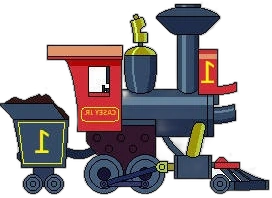
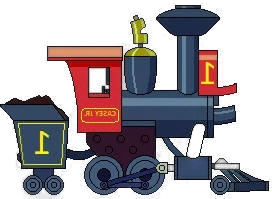
docs: capture all 2026-04-22 feedback as Tasks #44+#45 in TODO
Task #44 (P0) — Result modal engine bug:
Screenshot shows modal with '1 star + Sempurna! + Matematika Benar: 0' — contradictory. Modal uses hardcoded 'Selesai!' title + 'Sempurna!' sub-message regardless of actual star count. Planned fix: title/sub branch on stars, Next-level button only when stars≥3, GameScoring.calc audit for zero-correct case.

Task #45 — Character train sprite recalibration:
- All 4 sprites re-processed with isnet-general-use + alpha matting for cleaner bg removal
- Linus Brave dimensions dropped 264×173 → 130×101 (big change, wheels need re-map)
- Wheel positions in trains-db.js + G16_CHAR_CONFIGS need audit
- Train placement clipped at screen edge on wide sprites (Dragutin 512, Malivlak 512)

Plan mode — no execute until user confirms.

diff --git a/style.css b/style.css
@@ -288,16 +288,16 @@ body { font-family: var(--font); color: var(--text); min-height: 100vh; overflow
 @keyframes sunPulse { 0%,100%{box-shadow:0 0 30px #FCD34D88} 50%{box-shadow:0 0 50px #FCD34DCC} }
 @keyframes cloudDrift { 0%{transform:translateX(-120%)} 100%{transform:translateX(110vw)} }
 .breathe-container { display:flex;flex-direction:column;align-items:center;justify-content:center;flex:1;width:100%;position:relative;z-index:1; }
-.breathe-circle-wrap { position:relative;width:230px;height:230px;display:flex;align-items:center;justify-content:center;margin-bottom:28px; }
+.breathe-circle-wrap { position:relative;width:clamp(160px,52vw,230px);height:clamp(160px,52vw,230px);display:flex;align-items:center;justify-content:center;margin-bottom:var(--rz-gap-lg); }
 .breathe-ring { position:absolute;width:100%;height:100%;border-radius:50%;background:radial-gradient(circle,rgba(167,139,250,0.35),rgba(139,92,246,0.2));transition:transform 0.8s ease,background 0.8s ease;box-shadow:0 0 40px rgba(167,139,250,0.3); }
 .breathe-ring.ring2 { width:75%;height:75%;background:radial-gradient(circle,rgba(167,139,250,0.55),rgba(139,92,246,0.3)); }
-.breathe-animal { font-size:80px;z-index:2;transition:transform 0.8s ease;filter:drop-shadow(0 8px 16px rgba(139,92,246,0.3)); }
-.breathe-instruction { font-size:34px;font-weight:900;font-family:var(--font-display);text-align:center;color:#4C1D95;margin-bottom:8px;min-height:44px; }
-.breathe-sub { font-size:17px;color:#6D28D9;text-align:center;margin-bottom:20px;font-weight:700; }
-.breathe-timer-wrap { position:relative;width:80px;height:80px;margin:0 auto 16px; }
+.breathe-animal { font-size:calc(var(--rz-font-hero) * 1.65);z-index:2;transition:transform 0.8s ease;filter:drop-shadow(0 8px 16px rgba(139,92,246,0.3)); }
+.breathe-instruction { font-size:calc(var(--rz-font-h1) * 1.05);font-weight:900;font-family:var(--font-display);text-align:center;color:#4C1D95;margin-bottom:var(--rz-gap-xs);min-height:calc(var(--rz-font-h1) * 1.4); }
+.breathe-sub { font-size:var(--rz-font-body);color:#6D28D9;text-align:center;margin-bottom:var(--rz-gap-md);font-weight:700; }
+.breathe-timer-wrap { position:relative;width:clamp(70px,18vw,80px);height:clamp(70px,18vw,80px);margin:0 auto var(--rz-gap-md); }
 .breathe-timer-bg { position:absolute;inset:0;border-radius:50%;background:rgba(255,255,255,0.6); }
-.breathe-timer { position:relative;font-size:42px;font-weight:900;color:var(--brand);text-align:center;line-height:80px; }
-.breathe-cycles { display:flex;gap:12px;justify-content:center;margin-top:16px; }
+.breathe-timer { position:relative;font-size:calc(var(--rz-font-hero) * 0.88);font-weight:900;color:var(--brand);text-align:center;line-height:clamp(70px,18vw,80px); }
+.breathe-cycles { display:flex;gap:var(--rz-gap-sm);justify-content:center;margin-top:var(--rz-gap-md); }
 .cycle-dot { width:20px;height:20px;border-radius:50%;background:rgba(255,255,255,0.5);border:3px solid rgba(139,92,246,0.4);transition:background 0.4s,transform 0.4s cubic-bezier(0.34,1.56,0.64,1); }
 .cycle-dot.done { background:var(--brand);border-color:var(--brand-light);transform:scale(1.2);box-shadow:0 0 12px rgba(139,92,246,0.5); }
 
@@ -361,13 +361,13 @@ body { font-family: var(--font); color: var(--text); min-height: 100vh; overflow
 @keyframes moonGlow { 0%,100%{filter:drop-shadow(0 0 8px #FCD34D44)} 50%{filter:drop-shadow(0 0 16px #FCD34DAA)} }
 .glow-orb { position:absolute;border-radius:50%;filter:blur(20px);animation:orbFloat ease-in-out infinite; }
 @keyframes orbFloat { 0%,100%{transform:translateY(0)scale(1)} 50%{transform:translateY(-15px)scale(1.1)} }
-.g5-score-row { display:flex;gap:12px;width:100%;max-width:520px;margin-bottom:14px;position:relative;z-index:1; }
-.g5-player-score { flex:1;background:rgba(255,255,255,0.8);border-radius:18px;padding:10px 14px;text-align:center;box-shadow:var(--shadow);border:3px solid transparent;transition:border-color 0.3s,transform 0.2s; }
+.g5-score-row { display:flex;gap:var(--rz-gap-sm);width:100%;max-width:520px;margin-bottom:var(--rz-gap-sm);position:relative;z-index:1; }
+.g5-player-score { flex:1;background:rgba(255,255,255,0.8);border-radius:var(--rz-radius-md);padding:var(--rz-gap-sm) var(--rz-gap-md);text-align:center;box-shadow:var(--shadow);border:3px solid transparent;transition:border-color 0.3s,transform 0.2s; }
 .g5-player-score.active { border-color:var(--brand);transform:scale(1.04);background:linear-gradient(135deg,#F3E8FF,white); }
-.g5-player-score .ps-name { font-size:13px;font-weight:700;color:var(--text-light); }
-.g5-player-score .ps-val  { font-size:22px;font-weight:900;background:linear-gradient(135deg,#8B5CF6,#F43F5E);-webkit-background-clip:text;-webkit-text-fill-color:transparent;background-clip:text; }
-.g5-turn-text { font-size:16px;font-weight:700;text-align:center;color:#5B21B6;margin-bottom:14px;position:relative;z-index:1; }
-.g5-grid { display:grid;grid-template-columns:repeat(4,1fr);gap:8px;width:100%;max-width:520px;position:relative;z-index:1; }
+.g5-player-score .ps-name { font-size:var(--rz-font-sm);font-weight:700;color:var(--text-light); }
+.g5-player-score .ps-val  { font-size:var(--rz-font-title);font-weight:900;background:linear-gradient(135deg,#8B5CF6,#F43F5E);-webkit-background-clip:text;-webkit-text-fill-color:transparent;background-clip:text; }
+.g5-turn-text { font-size:var(--rz-font-body);font-weight:700;text-align:center;color:#5B21B6;margin-bottom:var(--rz-gap-sm);position:relative;z-index:1; }
+.g5-grid { display:grid;grid-template-columns:repeat(4,1fr);gap:var(--rz-gap-sm);width:100%;max-width:520px;position:relative;z-index:1; }
 .g5-grid.grid-3x4 { grid-template-columns:repeat(3,1fr);max-width:380px; }
 .g5-grid.grid-4x5 { grid-template-columns:repeat(4,1fr); }
 .g5-card { aspect-ratio:1;border-radius:16px;cursor:pointer;position:relative;transform-style:preserve-3d;transition:transform 0.45s cubic-bezier(0.4,0,0.2,1);box-shadow:0 4px 10px rgba(0,0,0,0.12); }
@@ -377,8 +377,8 @@ body { font-family: var(--font); color: var(--text); min-height: 100vh; overflow
 .g5-card-front { background:linear-gradient(135deg,#8B5CF6,#A78BFA);box-shadow:inset 0 2px 6px rgba(255,255,255,0.3); }
 .g5-card-front::after { content:'🐾';font-size:44px;filter:drop-shadow(0 2px 4px rgba(0,0,0,0.2)); }
 .g5-card-back { background:white;transform:rotateY(180deg);flex-direction:column;gap:2px; }
-.g5-card-back .card-emoji { font-size:48px; }
-.g5-card-back .card-label { font-size:11px;font-weight:900;color:var(--text-light); }
+.g5-card-back .card-emoji { font-size:clamp(30px,8vw,48px); }
+.g5-card-back .card-label { font-size:clamp(8px,1.8vw,11px);font-weight:900;color:var(--text-light); }
 .g5-banner-wrap { width:100%;max-width:520px;margin-bottom:8px;flex-shrink:0;position:relative;z-index:1; }
 .g5-banner-img { width:100%;height:80px;object-fit:cover;object-position:center 30%;border-radius:16px;box-shadow:0 4px 16px rgba(0,0,0,0.2); }
 /* Gold match celebration (overrides plain teal) */
@@ -521,19 +521,19 @@ body { font-family: var(--font); color: var(--text); min-height: 100vh; overflow
 
 /* G7 */
 #screen-game7 { background:linear-gradient(180deg,#F0FDFA 0%,#CCFBF1 50%,#E0F2FE 100%); }
-.g7-mode-badge { background:linear-gradient(135deg,#2DD4BF,#14B8A6);color:white;border-radius:100px;padding:6px 18px;font-size:14px;font-weight:700;margin-bottom:14px;box-shadow:0 4px 0 #0F766E;align-self:center; }
-.g7-display { width:min(340px,82vw);height:min(340px,82vw);border-radius:28px;background:white;box-shadow:var(--shadow-lg);display:flex;align-items:center;justify-content:center;font-size:min(150px,38vw);margin-bottom:16px;border:4px solid #CCFBF1;animation:g3Pop 0.5s cubic-bezier(0.34,1.56,0.64,1);align-self:center; }
-.g7-question { font-size:20px;font-weight:900;text-align:center;margin-bottom:18px;background:linear-gradient(135deg,#14B8A6,#2DD4BF);-webkit-background-clip:text;-webkit-text-fill-color:transparent;background-clip:text; }
-.g7-choices { display:grid;grid-template-columns:1fr 1fr;gap:12px;width:100%;max-width:440px;align-self:center;padding-bottom:24px; }
-.g7-choice-btn { background:white;border:3px solid #CCFBF1;border-radius:20px;padding:16px 10px;font-family:var(--font);font-weight:900;font-size:18px;cursor:pointer;text-align:center;color:var(--text);box-shadow:0 4px 0 #A5F3EB;transition:transform 0.15s cubic-bezier(0.34,1.56,0.64,1),border-color 0.15s; }
+.g7-mode-badge { background:linear-gradient(135deg,#2DD4BF,#14B8A6);color:white;border-radius:100px;padding:var(--rz-gap-xs) var(--rz-gap-md);font-size:var(--rz-font-sm);font-weight:700;margin-bottom:var(--rz-gap-sm);box-shadow:0 4px 0 #0F766E;align-self:center; }
+.g7-display { width:min(340px,82vw);height:min(340px,82vw);border-radius:var(--rz-radius-lg);background:white;box-shadow:var(--shadow-lg);display:flex;align-items:center;justify-content:center;font-size:min(150px,38vw);margin-bottom:var(--rz-gap-md);border:4px solid #CCFBF1;animation:g3Pop 0.5s cubic-bezier(0.34,1.56,0.64,1);align-self:center; }
+.g7-question { font-size:var(--rz-font-title);font-weight:900;text-align:center;margin-bottom:var(--rz-gap-md);background:linear-gradient(135deg,#14B8A6,#2DD4BF);-webkit-background-clip:text;-webkit-text-fill-color:transparent;background-clip:text; }
+.g7-choices { display:grid;grid-template-columns:1fr 1fr;gap:var(--rz-gap-sm);width:100%;max-width:440px;align-self:center;padding-bottom:24px; }
+.g7-choice-btn { background:white;border:3px solid #CCFBF1;border-radius:var(--rz-radius-md);padding:var(--rz-gap-md) var(--rz-gap-sm);font-family:var(--font);font-weight:900;font-size:var(--rz-font-body);cursor:pointer;text-align:center;color:var(--text);box-shadow:0 4px 0 #A5F3EB;transition:transform 0.15s cubic-bezier(0.34,1.56,0.64,1),border-color 0.15s; }
 .g7-choice-btn:active { transform:scale(0.92)translateY(3px); }
 .g7-choice-btn.correct { border-color:#14B8A6;background:linear-gradient(135deg,#CCFBF1,white);box-shadow:0 4px 0 #0F766E,0 0 20px rgba(20,184,166,0.3);animation:correctPulse 0.4s ease; }
 .g7-choice-btn.wrong   { border-color:#F43F5E;background:linear-gradient(135deg,#FFF1F3,white);animation:wrongShake 0.4s ease; }
-.g7-choice-img { font-size:48px;display:block;margin-bottom:6px; }
-.g7-choice-text { font-size:17px;color:var(--text); }
-.g7-suku { display:inline-block;font-size:20px;font-weight:900;color:#14B8A6;animation:g7SukuPop 0.35s cubic-bezier(0.34,1.56,0.64,1) both; }
+.g7-choice-img { font-size:calc(var(--rz-font-hero) * 1.05);display:block;margin-bottom:var(--rz-gap-xs); }
+.g7-choice-text { font-size:var(--rz-font-body);color:var(--text); }
+.g7-suku { display:inline-block;font-size:var(--rz-font-title);font-weight:900;color:#14B8A6;animation:g7SukuPop 0.35s cubic-bezier(0.34,1.56,0.64,1) both; }
 @keyframes g7SukuPop{0%{transform:scale(0.5) translateY(6px);opacity:0}100%{transform:none;opacity:1}}
-.g7-progress { font-size:15px;color:var(--text-light);font-weight:700;text-align:center;margin-top:10px; }
+.g7-progress { font-size:var(--rz-font-sm);color:var(--text-light);font-weight:700;text-align:center;margin-top:var(--rz-gap-sm); }
 
 /* G8 */
 #screen-game8 { background:linear-gradient(160deg,#FFF1F3 0%,#F3E8FF 50%,#FFF0F5 100%); }
@@ -556,18 +556,18 @@ body { font-family: var(--font); color: var(--text); min-height: 100vh; overflow
 
 /* G9 */
 #screen-game9 { background:linear-gradient(160deg,#f0fdf4 0%,#dcfce7 30%,#bbf7d0 60%,#86efac 100%); }
-.g9-letter-display { font-size:80px;font-family:var(--font-display);font-weight:900;background:linear-gradient(135deg,#84CC16,#A3E635);-webkit-background-clip:text;-webkit-text-fill-color:transparent;background-clip:text;margin-bottom:4px;line-height:1;animation:g3Pop 0.5s cubic-bezier(0.34,1.56,0.64,1); }
-.g9-instruction { font-size:16px;font-weight:700;color:var(--text-light);margin-bottom:16px; }
-.g9-canvas-wrap { position:relative;width:min(300px,80vw);height:min(300px,80vw);border-radius:24px;overflow:hidden;box-shadow:0 8px 32px rgba(0,0,0,0.15);border:3px solid rgba(134,239,172,0.5);background:linear-gradient(145deg,#fefce8,#fffbeb); }
+.g9-letter-display { font-size:calc(var(--rz-font-hero) * 1.65);font-family:var(--font-display);font-weight:900;background:linear-gradient(135deg,#84CC16,#A3E635);-webkit-background-clip:text;-webkit-text-fill-color:transparent;background-clip:text;margin-bottom:var(--rz-gap-xs);line-height:1;animation:g3Pop 0.5s cubic-bezier(0.34,1.56,0.64,1); }
+.g9-instruction { font-size:var(--rz-font-body);font-weight:700;color:var(--text-light);margin-bottom:var(--rz-gap-md); }
+.g9-canvas-wrap { position:relative;width:clamp(220px,72vw,300px);height:clamp(220px,72vw,300px);border-radius:var(--rz-radius-lg);overflow:hidden;box-shadow:0 8px 32px rgba(0,0,0,0.15);border:3px solid rgba(134,239,172,0.5);background:linear-gradient(145deg,#fefce8,#fffbeb); }
 #g9-canvas { position:absolute;inset:0;cursor:crosshair;touch-action:none; }
 .g9-guide-dots { position:absolute;inset:0;pointer-events:none; }
 .g9-dot { position:absolute;width:20px;height:20px;border-radius:50%;background:rgba(132,204,22,0.35);border:2.5px solid rgba(132,204,22,0.6);transform:translate(-50%,-50%);transition:all 0.3s ease;box-shadow:0 0 8px rgba(132,204,22,0.2);animation:g9DotPulse 2s ease-in-out infinite; }
 .g9-dot.hit { background:#84CC16;border-color:#3F6212;transform:translate(-50%,-50%)scale(1.35);box-shadow:0 0 16px rgba(132,204,22,0.7);animation:none; }
 @keyframes g9DotPulse{0%,100%{box-shadow:0 0 6px rgba(132,204,22,0.2)}50%{box-shadow:0 0 14px rgba(132,204,22,0.5)}}
-.g9-result { text-align:center;margin-top:12px;animation:feedbackPop 0.4s cubic-bezier(0.34,1.56,0.64,1); }
-.g9-stars { font-size:40px;margin-bottom:6px; }
+.g9-result { text-align:center;margin-top:var(--rz-gap-sm);animation:feedbackPop 0.4s cubic-bezier(0.34,1.56,0.64,1); }
+.g9-stars { font-size:calc(var(--rz-font-hero) * 0.85);margin-bottom:var(--rz-gap-xs); }
 #g9-result-msg { font-size:18px;font-weight:700;color:var(--text-light); }
-.g9-progress { font-size:15px;color:#558B2F;font-weight:700;text-align:center;margin-top:8px; }
+.g9-progress { font-size:var(--rz-font-sm);color:#558B2F;font-weight:700;text-align:center;margin-top:var(--rz-gap-xs); }
 
 /* MASCOT GUIDE */
 .mascot-guide { display:flex;align-items:flex-end;gap:12px;width:100%;max-width:480px;margin:0 0 10px;position:relative;z-index:1; }
@@ -702,11 +702,7 @@ body { font-family: var(--font); color: var(--text); min-height: 100vh; overflow
   /* RDE Step 5: G1 @media overrides removed — tokens handle 480px breakpoint */
   .g1-choices { max-width:100%; }
 
-  /* G2 */
-  .breathe-circle-wrap { width:190px; height:190px; }
-  .breathe-animal { font-size:66px; }
-  .breathe-instruction { font-size:28px; }
-  .breathe-sub { font-size:15px; }
+  /* G2 handled via RDE --rz-* tokens (2026-04-22 Step 5) */
 
   /* G3 handled via RDE --rz-* tokens */
 
@@ -715,12 +711,10 @@ body { font-family: var(--font); color: var(--text); min-height: 100vh; overflow
   .g4-animals-grid { min-height:110px; }
   .g4-animal-item { font-size:50px; }
 
-  /* G5 memory */
-  .g5-grid { gap:6px; max-width:100%; }
-  .g5-card-back .card-emoji { font-size:38px; }
-  .g5-card-back .card-label { font-size:8px; }
-  .g5-card-front::after { font-size:20px; }
-  .g5-score-row { gap:8px; max-width:100%; }
+  /* G5 memory — grid/score/card sizes handled via RDE --rz-* tokens + clamp (2026-04-22 Step 5). Card-front ::after kept at base 44px (token-composed where safe). */
+  .g5-grid { max-width:100%; }
+  .g5-card-front::after { font-size:clamp(20px,5vw,44px); }
+  .g5-score-row { max-width:100%; }
 
   /* G6 */
   .g6-road { height:min(52vh,380px); min-height:220px; }
@@ -731,21 +725,16 @@ body { font-family: var(--font); color: var(--text); min-height: 100vh; overflow
   .g6-controls { gap:8px; }
   .g6-score-mid { font-size:17px; min-width:64px; padding:8px 12px; }
 
-  /* G7 */
+  /* G7 — question/choices/img/text migrated to RDE tokens (2026-04-22 Step 5). Display viewport-sized retained for board scale. */
   .g7-display { width:190px; height:190px; font-size:95px; }
-  .g7-question { font-size:17px; }
-  .g7-choices { max-width:100%; gap:8px; }
-  .g7-choice-btn { padding:12px 8px; font-size:15px; }
-  .g7-choice-img { font-size:38px; }
-  .g7-choice-text { font-size:14px; }
+  .g7-choices { max-width:100%; }
 
   /* G8 — slots/letters/slot/letter-btn migrated to RDE tokens (2026-04-21 Step 3) */
   .g8-hint-img { width:180px; height:180px; font-size:110px; }
 
-  /* G9 canvas */
+  /* G9 canvas — letter-display handled via RDE --rz-* tokens; wrap size retained for canvas pixel math (2026-04-22 Step 5) */
   .g9-canvas-wrap { width:min(280px, 90vw); height:min(280px, 90vw); }
   #g9-canvas { width:100%; height:100%; }
-  .g9-letter-display { font-size:64px; }
 
   /* Feedback overlay */
   .feedback-card { padding:30px 22px; }
@@ -773,9 +762,7 @@ body { font-family: var(--font); color: var(--text); min-height: 100vh; overflow
   /* Card */
   .card { padding:18px 14px; }
 
-  /* Breathe timer */
-  .breathe-timer-wrap { width:70px; height:70px; }
-  .breathe-timer { font-size:36px; line-height:70px; }
+  /* G2 Breathe timer handled via RDE --rz-* tokens (2026-04-22 Step 5) */
 }
 
 /* Small phones (≤400px) */
@@ -795,8 +782,7 @@ body { font-family: var(--font); color: var(--text); min-height: 100vh; overflow
   .player-chip .p-name { font-size:11px; }
   .player-chip .p-stars { display:none; }
 
-  .g5-grid { gap:6px; }
-  .g5-card-back .card-emoji { font-size:34px; }
+  /* G5 400px handled via RDE --rz-* tokens (2026-04-22 Step 5) */
 
   .g6-road { height:min(50vh,360px); }
 
@@ -828,11 +814,10 @@ body { font-family: var(--font); color: var(--text); min-height: 100vh; overflow
   /* RDE Step 5: G1 400px overrides removed */
 
   /* RDE Step 5: G4 400px choice-btn override removed */
-  .g5-grid { gap:5px; }
-  .g5-card-back .card-emoji { font-size:30px; }
+  /* G5 360px handled via RDE --rz-* tokens (2026-04-22 Step 5) */
   .g6-road { height:48vh; }
   .g9-canvas-wrap { width:min(240px, 94vw); height:min(240px, 94vw); }
-  .g9-letter-display { font-size:54px; }
+  /* G9 letter-display handled via RDE --rz-* tokens (2026-04-22 Step 5) */
   /* G8 letter-btn/slot handled via RDE --rz-scale (shrinks to 0.7× at 320px) */
 }
 
@@ -855,17 +840,16 @@ body { font-family: var(--font); color: var(--text); min-height: 100vh; overflow
   .player-chip .p-animal { font-size:18px; }
   .player-chip .p-streak { display:none; }
 
-  .breathe-circle-wrap { width:160px; height:160px; }
-  .breathe-animal { font-size:56px; }
-  .breathe-instruction { font-size:22px; }
+  /* G2 320px handled via RDE --rz-* tokens (2026-04-22 Step 5) */
 
   /* RDE Step 5: G1 animal-display 320px override removed — token handles */
   /* G3 handled via RDE --rz-* tokens */
   .g4-animals-grid { min-height:90px; }
   .g4-animal-item { font-size:44px; }
-  .g5-grid { gap:4px; }
+  /* G5 320px handled via RDE --rz-* tokens (2026-04-22 Step 5) */
   .g6-road { height:46vh; }
   .g7-display { width:170px; height:170px; font-size:82px; }
+  /* G7 320px — choice-btn/text handled via RDE --rz-* tokens (2026-04-22 Step 5) */
   /* G8 letter-btn handled via RDE --rz-scale */
   .g9-canvas-wrap { width:min(220px, 96vw); height:min(220px, 96vw); }
   .feedback-card { padding:22px 16px; }

diff --git a/index.html b/index.html
@@ -6,7 +6,7 @@
 <title>Dunia Emosi 🐾</title>
 <link href="https://fonts.googleapis.com/css2?family=Nunito:wght@400;700;900&family=Fredoka+One&display=swap" rel="stylesheet">
 
-<link rel="stylesheet" href="style.css?v=20260422d">
+<link rel="stylesheet" href="style.css?v=20260422e">
 </head>
 <body>
 <!-- Loading indicator — hidden by JS after page loads -->
@@ -627,8 +627,8 @@
           </div>
           <!-- G15: Lokomotif Pemberani -->
           <div class="wmap-node" id="gtile-15" onclick="playClick();openLevelSelect(15)" title="Lokomotif Pemberani">
-            <div class="wmap-node-bldg" style="background:linear-gradient(145deg,#0D47A1,#42A5F5);">
-              <img class="wn-icon" src="assets/train/linus-casey.webp" alt="Linus Casey" style="width:50px;height:50px;object-fit:contain;filter:drop-shadow(0 3px 8px rgba(0,0,0,0.75));" onerror="this.src='assets/train/lokomotif-front-red.svg'">
+            <div class="wmap-node-bldg" style="background:linear-gradient(145deg,#FEF3C7,#FDBA74);">
+              <img class="wn-icon" src="assets/train/linus-casey.webp" alt="Linus Casey" style="width:75px;height:75px;object-fit:contain;filter:drop-shadow(0 3px 8px rgba(0,0,0,0.75));" onerror="this.src='assets/train/lokomotif-front-red.svg'">
             </div>
             <div class="wmap-node-name">Lokomotif Pemberani</div>
             <div class="wmap-node-stars" id="gstars-15-lbl"></div>
@@ -2056,6 +2056,6 @@ function loadPixiJS(cb) {
   document.head.appendChild(s)
 }
 </script>
-<script src="game.js?v=20260422d" defer></script>
+<script src="game.js?v=20260422e" defer></script>
 </body>
 </html>

diff --git a/games/g15-pixi.html b/games/g15-pixi.html
@@ -1710,7 +1710,10 @@ function buildTrainGrid() {
       const img = document.createElement('img');
       img.src = entry.spriteUrl;
       img.alt = entry.name;
-      img.style.cssText = 'width:100px;height:36px;object-fit:contain;display:block;';
+      // Sprites vary widely in aspect (1.37 .. 7.21). Use max-width with auto height
+      // so tall trains (Casey JR, Linus) stay chunky and wide trains (JZ 711, Malivlak)
+      // render at readable height instead of being squished into a 36px band.
+      img.style.cssText = 'width:auto;height:auto;max-width:120px;max-height:48px;object-fit:contain;display:block;margin:0 auto;';
       card.appendChild(img);
     } else {
       const canvas = document.createElement('canvas');

diff --git a/game.js b/game.js
@@ -308,7 +308,7 @@ const GAME_META = {
   12:{icon:'🌑',name:'Tebak Bayangan'},
   13:{icon:'🔥',name:'Evolusi Math'},
   14:{icon:'🏁',name:'Balapan Kereta'},
-  15:{icon:'🚂',name:'Lokomotif Pemberani',iconImg:'assets/train/lokomotif-front-red.svg'},
+  15:{icon:'🚂',name:'Lokomotif Pemberani',iconImg:'assets/train/linus-casey.webp'},
   16:{icon:'🚂',name:'Selamatkan Kereta!',iconImg:'assets/train/lokomotif-front-blue.svg'},
   17:{icon:'🌉',name:'Jembatan Goyang'},
   18:{icon:'🏛',name:'Museum Ambarawa'},

diff --git a/TODO-GAME-FIXES.md b/TODO-GAME-FIXES.md
@@ -2,6 +2,36 @@
 > This file tracks ALL pending game issues. Claude reads this at session start.
 > Mark items ✅ when done. Add new issues at the bottom.
 
+## 🔥 OPEN 2026-04-22 (session ongoing)
+
+### Task #44 — Result Modal Engine Contradicts Stars (P0 BUG)
+- ⬜ **Symptom**: Modal shows "Selesai!" + 1★ + "Sempurna! Tidak ada kesalahan!" + "Matematika Benar: 0" + enabled "Level Berikutnya" button — WITH ZERO CORRECT ANSWERS. Screenshot 2026-04-22.
+- **Root cause hypotheses**:
+  - `GameScoring.calc({correct:0, total:N})` may return stars≥1 (bug — should be 0).
+  - Modal title hardcoded "Selesai!" regardless of stars. Should branch: 0★="Gagal!", 1-2★="Coba Lagi", 3★="Bagus!", 4★="Hebat!", 5★="Sempurna!".
+  - Sub-message "Sempurna! Tidak ada kesalahan!" hardcoded instead of derived from stars.
+  - "Level Berikutnya" should only appear when stars≥3 (passing grade).
+- **Touches**: `games/game-modal.js` `GameModal.show()` + `game.js` showResult/showGameResult wrappers.
+- **Scope**: affects ALL games that use the shared modal.
+
+### Task #45 — Character Train Sprite Re-processed (cumulative feedback)
+- ⬜ **JZ 711 Dragutin**: first pass 512×71 may have white edges / uncropped. Re-processed 2026-04-22 06:53 via `isnet-general-use` + `alpha_matting=True` → now 512×128. Needs visual verification.
+- ⬜ **Malivlak (JZ 62)**: white around edges not fully removed. Re-processed → 512×256. Verify cleanly transparent.
+- ⬜ **Casey JR**: re-processed → 272×199 (negligible change).
+- ⬜ **Linus Brave**: re-processed → 130×101 (BIG CHANGE from 264×173!). All `wheelPositions` in trains-db.js + G16_CHAR_CONFIGS need recalibration against new 130-wide sprite.
+- ⬜ **Wheel positions proportional to actual wheels in sprite** — user flagged Malivlak wheels too big + misaligned. Need to trace actual wheel pixel coordinates in the sprite and map via spriteHeight scale.
+- ⬜ **Train placement clipped at screen edge** — character trains (especially wide ones like Dragutin 512→~270px rendered, Malivlak 512→~285px rendered) overflow viewport. Increase TRAIN_SCREEN_X in g15-pixi.html/g16-pixi.html OR add container bounds check. Add safe margin.
+- **Touches**: `games/trains-db.js`, `games/g15-pixi.html`, `games/g16-pixi.html` (G16_CHAR_CONFIGS).
+
+### Plan order
+1. Fix #44 modal engine first (P0, visible bug with wrong success message).
+2. Recalibrate Linus wheel positions for new 130×101 sprite.
+3. Verify + recalibrate Malivlak wheels against new 512×256 sprite.
+4. Increase train safe margin from screen edge.
+5. Visual check JZ 711 Dragutin cleanliness.
+
+---
+
 ## Status Legend
 - ⬜ = Not started
 - 🔧 = In progress
@@ -189,7 +219,11 @@ Cache-bust: `index.html` v=20260421b (style + game.js).
 ### RDE Steps 5+6 (Task #29, progress 2026-04-22) 🔧
 - ✅ **Step 5 G1** — `.g1-animal-display`/`.g1-question`/`.g1-choice-btn`/`.choice-emoji/label`/`.g1-progress` consume `--rz-font-*`/`--rz-gap-*`/`--rz-radius-md`. Removed 9 @media override lines.
 - ✅ **Step 5 G4** — `.g4-timer-text`/`.g4-question`/`.g4-choice-btn`/`.g4-progress`/`.g4-mode-btn` tokenized. Removed 4 @media override lines.
-- ⬜ **Step 5 G2/G5/G7/G9** — deferred (state complexity, needs careful audit).
+- ✅ **Step 5 G2** (2026-04-22) — `.breathe-circle-wrap/animal/instruction/sub/timer-wrap/timer/cycles` consume `--rz-font-*`/`--rz-gap-*` + `clamp()` for circle/timer diameters. Removed 10 @media override lines (480/320).
+- ✅ **Step 5 G5** (2026-04-22) — `.g5-score-row`/`.g5-player-score`/`.ps-name/ps-val`/`.g5-turn-text`/`.g5-grid`/`.card-emoji`/`.card-label` tokenized (gap/radius/padding/font + clamp). Gameplay rules (aspect-ratio, preserve-3d, grid-template-columns) preserved. Removed 8 @media override lines.
+- ✅ **Step 5 G7** (2026-04-22) — `.g7-mode-badge`/`.g7-display`/`.g7-question`/`.g7-choices`/`.g7-choice-btn/img/text`/`.g7-suku`/`.g7-progress` tokenized. Dark-theme `!important` overrides at 1620+ preserved. Removed 6 @media override lines (viewport-sized display retained for 480/320).
+- ✅ **Step 5 G9** (2026-04-22) — `.g9-letter-display`/`.g9-instruction`/`.g9-canvas-wrap`/`.g9-result`/`.g9-stars`/`.g9-progress` tokenized + clamp. Canvas pixel-math wrap sizes retained for 480/360/320. Removed 2 @media letter-display overrides.
+- 🧮 **Token count**: `var(--rz-` references grew 62 → 112 (+50). Brace balance verified 2767/2767.
 - ✅ **Step 6** — `shared/rz-responsive.js` shipped with `window.RZ` API mirroring CSS `--rz-scale` formula. PixiJS games opt-in per Step 7.
 - ⬜ **Step 7** — Pixi migration (G14/G15/G16/G19/G20/G22) — wire `RZ.btn(kind)`/`RZ.fontScale(base)` into sprite/text sizing. Deferred, low priority.
 

diff --git a/documentation and standarization/CHANGELOG.md b/documentation and standarization/CHANGELOG.md
@@ -1,5 +1,37 @@
 # Changelog — Dunia Emosi
 
+## 2026-04-22 — RDE Step 5: G2/G5/G7/G9 migrated
+
+### Changed
+- **RDE Step 5 G2** (`style.css:290-300`) — `.breathe-circle-wrap`/`.breathe-animal`/`.breathe-instruction`/`.breathe-sub`/`.breathe-timer-wrap`/`.breathe-timer`/`.breathe-cycles` consume `--rz-font-*`/`--rz-gap-*` + `clamp()` for circle/timer diameters. Removed 10 lines from `@media` blocks (480/320 breakpoints).
+- **RDE Step 5 G5** (`style.css:364-381`) — `.g5-score-row`/`.g5-player-score`/`.ps-name`/`.ps-val`/`.g5-turn-text`/`.g5-grid` gap+padding+radius+font tokens; `.card-emoji`/`.card-label` switched to `clamp()`. Card aspect-ratio/`transform-style: preserve-3d`/grid-template-columns preserved (gameplay-critical). Removed 8 lines from `@media` blocks (480/400/360/320).
+- **RDE Step 5 G7** (`style.css:524-536`) — `.g7-mode-badge`/`.g7-display`/`.g7-question`/`.g7-choices`/`.g7-choice-btn`/`.g7-choice-img`/`.g7-choice-text`/`.g7-suku`/`.g7-progress` consume tokens for radius/gap/font/padding. Dark-theme `!important` overrides at 1620+ preserved. Removed 6 lines from `@media` blocks (480/320); viewport-based display width/height retained.
+- **RDE Step 5 G9** (`style.css:559-570`) — `.g9-letter-display`/`.g9-instruction`/`.g9-canvas-wrap`/`.g9-result`/`.g9-stars`/`.g9-progress` consume font/gap/radius tokens + `clamp()` for canvas wrap. Canvas wrap @media sizes retained (canvas pixel math critical). Removed 2 letter-display @media overrides.
+- **Token count**: `var(--rz-` references grew 62 → 112 (+50). Brace balance verified 2767/2767.
+
+### Cache
+- `index.html` → `v=20260422f`.
+
+### Notes
+- G5 cardback/card-front gameplay rules untouched — only outer scoreboard + grid/gap sizing.
+- G7 `.g7-display` global enhancement at line 583 (viewport-anchored) left intact.
+
+---
+
+## 2026-04-22 — G15 landing tile polish
+
+### Changed
+- **G15 landing tile (`index.html:630-631`)** — icon enlarged 50px → 75px (1.5x) so the Linus+Casey character art reads at tile size. Tile background switched from deep-blue gradient (`#0D47A1→#42A5F5`) to soft peach (`#FEF3C7→#FDBA74`) so the blue Linus locomotive contrasts instead of blending into a same-hue backdrop. Emoji fallback via `onerror` preserved.
+- **G15 level-select `iconImg` (`game.js:311`)** — swapped `assets/train/lokomotif-front-red.svg` → `assets/train/linus-casey.webp` so level-select hero matches the landing tile (was showing red programmatic locomotive).
+
+### Cache
+- `index.html` → `v=20260422e`.
+
+### Notes
+- G14 and G16 tiles left unchanged — G14 uses emoji on red gradient (already high-contrast), G16 uses blue `lokomotif-front-blue.svg` on orange gradient (already high-contrast). No clear improvement from adopting character trains at landing-tile size.
+
+---
+
 ## 2026-04-22 — Character trains + RDE Steps 5+6
 
 ### Added
